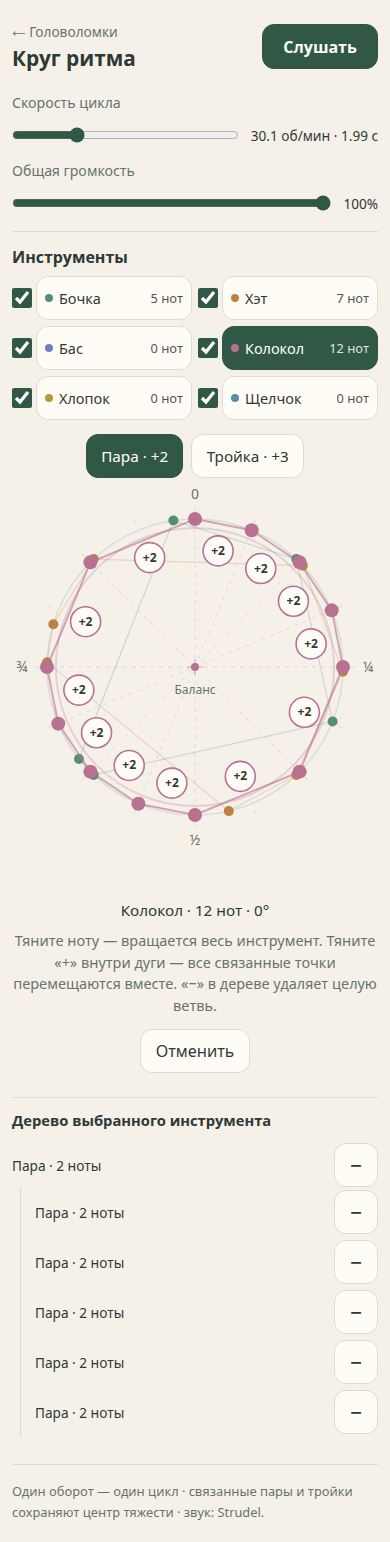
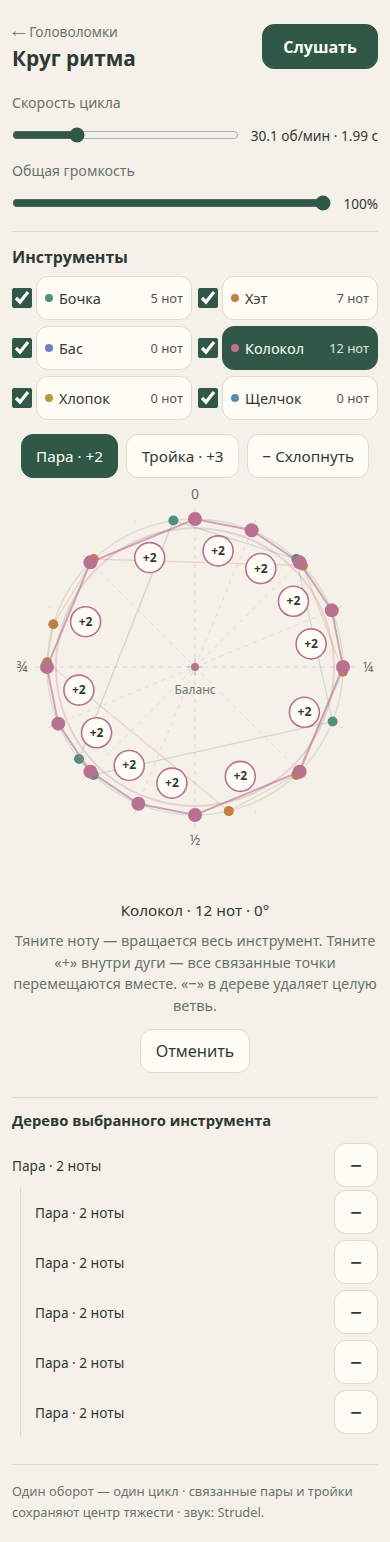
Expose balanced group collapse directly on the rhythm figure

Changed region(s): [[0.0308, 0.2802, 0.4923, 0.3113], [0.7077, 0.2802, 0.8923, 0.3113], [0.5231, 0.2802, 0.6769, 0.3113]]

diff --git a/xronomorph/view.js b/xronomorph/view.js
@@ -9,16 +9,16 @@ window.XronoView=class{
     for(const type of ['pointerup','pointercancel','lostpointercapture'])svg.addEventListener(type,e=>this.end(e,type!=='pointerup'));
     svg.addEventListener('keydown',e=>{
       const action=e.target.closest('[data-action]'),note=e.target.closest('[data-note]');
-      if(action&&['Enter',' '].includes(e.key)){e.preventDefault();this.onAction({kind:'split',arc:+action.dataset.index,at:+action.dataset.at});}
+      if(action&&['Enter',' '].includes(e.key)){e.preventDefault();this.onAction(action.dataset.action==='merge'?{kind:'merge',group:+action.dataset.index}:{kind:'split',arc:+action.dataset.index,at:+action.dataset.at});}
       else if(note&&['ArrowLeft','ArrowRight'].includes(e.key)){e.preventDefault();this.onNudge(+note.dataset.part,(e.key==='ArrowRight'?1:-1)*(e.shiftKey?10:1)/360);}
     });
-    svg.addEventListener('focusin',e=>{const a=e.target.closest('[data-action]');if(a&&!this.drag&&this.hover?.index!==+a.dataset.index){this.hover={kind:'split',index:+a.dataset.index};this.draw();}});
-    svg.addEventListener('focusout',e=>{if(!svg.contains(e.relatedTarget)&&!this.drag&&this.hover){this.hover=null;this.draw();}});
+    svg.addEventListener('focusin',e=>{if(this.drawing)return;const a=e.target.closest('[data-action]');if(a&&!this.drag&&(this.hover?.kind!==a.dataset.action||this.hover?.index!==+a.dataset.index)){this.hover={kind:a.dataset.action,index:+a.dataset.index};this.draw();}});
+    svg.addEventListener('focusout',e=>{if(this.drawing)return;if(!svg.contains(e.relatedTarget)&&!this.drag&&this.hover){this.hover=null;this.draw();}});
     window.addEventListener('keydown',e=>{if(e.key==='Escape')this.end(null,true);});window.addEventListener('blur',()=>this.end(null,true));
     this.resize=new ResizeObserver(()=>{if(Math.abs(svg.getBoundingClientRect().width-(this.width||0))>1)this.draw();});this.resize.observe(svg);
   }
   color(p){return this.colors[XronoModel.instruments.findIndex(i=>i.id===p.instrument)];}
-  set(state,rows){if(this.selected!==state.selected)this.hover=null;this.selected=state.selected;this.state=state;this.rows=rows;this.draw();}
+  set(state,rows,mode='split'){if(this.selected!==state.selected||this.mode!==mode)this.hover=null;this.selected=state.selected;this.mode=mode;this.state=state;this.rows=rows;this.draw();}
   removal(id){this.removeGroup=id;this.draw();}
   node(name,attrs={},parent=this.svg){const n=document.createElementNS(this.NS,name);for(const[k,v]of Object.entries(attrs))n.setAttribute(k,String(v));parent.append(n);return n;}
   point(t,r=this.radius){const a=t*Math.PI*2-Math.PI/2;return{x:this.cx+r*Math.cos(a),y:this.cy+r*Math.sin(a)};}
@@ -45,7 +45,7 @@ window.XronoView=class{
     const M=XronoModel,focused=this.svg.contains(document.activeElement)?document.activeElement.closest?.('[data-action],[data-note]'):null,focus=focused?{...focused.dataset}:null;
     const w=Math.max(260,this.svg.getBoundingClientRect().width),h=Math.min(660,w+8);this.width=w;this.cx=w/2;this.cy=h/2;this.radius=Math.min(w/2-35,h/2-36);
     this.svg.setAttribute('viewBox',`0 0 ${w} ${h}`);this.svg.style.height=h+'px';this.svg.replaceChildren();this.targets=[];
-    this.node('title').textContent='Один круг — один цикл. Нота вращает весь инструмент. Плюс добавляет связанную пару или тройку. Дерево справа позволяет удалить целую ветвь.';
+    this.node('title').textContent='Один круг — один цикл. Нота вращает весь инструмент. Плюс добавляет связанную пару или тройку. Режим «Схлопнуть» убирает связанную группу. Дерево позволяет удалить целую ветвь.';
     this.node('circle',{cx:this.cx,cy:this.cy,r:this.radius,fill:'none',stroke:'var(--line)','stroke-width':1.5});
     for(let i=0;i<16;i++){const a=this.point(i/16,this.radius+7),b=this.point(i/16,this.radius+12);this.node('line',{x1:a.x,y1:a.y,x2:b.x,y2:b.y,stroke:'var(--line)'});}
     for(const[t,label]of[[0,'0'],[.25,'¼'],[.5,'½'],[.75,'¾']]){const p=this.point(t,this.radius+25);this.node('text',{x:p.x,y:p.y+5,'text-anchor':'middle'}).textContent=label;}
@@ -53,7 +53,7 @@ window.XronoView=class{
     let preview=null;
     if(d?.kind==='split')preview=this.packetPreview(d.arc.index,d.at);
     else if(this.hover?.kind==='split'&&arcs[this.hover.index])preview=this.packetPreview(this.hover.index);
-    const removing=M.inspect(part).find(g=>g.id===this.removeGroup)?.subtreeIds||[];
+    const collapseId=d?.kind==='merge'?d.index:this.hover?.kind==='merge'?this.hover.index:this.removeGroup,collapse=M.inspect(part).find(g=>g.id===collapseId),removing=collapse?.subtreeIds||[];
     const order=this.rows.filter(p=>p.enabled&&p.id!==selected).concat(this.rows[selected]);
     for(const row of order){
       const c=this.color(row),active=row.id===selected,group=this.node('g',{'data-layer':row.id,opacity:row.enabled?1:.3});
@@ -65,11 +65,15 @@ window.XronoView=class{
         this.node('circle',{cx:p.x,cy:p.y,r:active?7:5,fill:c,opacity:active&&removing.includes(event.group)?.25:1},mark);
       });
     }
-    for(const arc of arcs){
+    if(this.mode==='split')for(const arc of arcs){
       const affected=preview?.valid&&preview.affected.includes(arc.index);
       this.arc(arc.start+part.phase,arc.length,this.radius*.94,{stroke:color,'stroke-width':affected?4:2,'stroke-opacity':affected?.85:.25,'stroke-dasharray':arc.empty?'4 6':'none'});
       const option=M.splitOptions(part,this.state.arity,arc,domains),at=d?.kind==='split'&&d.arc.index===arc.index?d.at:option.at;
-      if(at!=null)this.button(arc.index,at,this.point(at+part.phase,this.radius*.80),'+'+this.state.arity,arc.empty?'Добавить первую '+(this.state.arity===2?'пару':'тройку'):'Добавить '+this.state.arity+' связанные ноты: нажмите или потяните плюс',color);
+      if(at!=null)this.button('split',arc.index,at,this.point(at+part.phase,this.radius*.80),'+'+this.state.arity,arc.empty?'Добавить первую '+(this.state.arity===2?'пару':'тройку'):'Добавить '+this.state.arity+' связанные ноты: нажмите или потяните плюс',color);
+    }
+    if(this.mode==='merge')for(const g of M.inspect(part).filter(g=>!g.node.children.length)){
+      const at=g.points[0],label='Схлопнуть группу: убрать '+g.count+' нот';
+      this.button('merge',g.id,at,this.point(at+part.phase,this.radius*.72),'−'+g.count,label,color);
     }
     if(preview){
       const c=preview.valid?color:'var(--invalid)',times=preview.points.map(t=>M.wrap(t+part.phase));
@@ -81,14 +85,14 @@ window.XronoView=class{
     this.node('circle',{cx:this.cx+b.y*this.radius,cy:this.cy-b.x*this.radius,r:4,fill:color,'data-balance':b.residual,'data-empty':b.empty});
     this.node('text',{x:this.cx,y:this.cy+27,'text-anchor':'middle',class:'balance-label'}).textContent=b.empty?'Нет нот':'Баланс';
     this.locator=this.node('line',{x1:this.cx,y1:this.cy,x2:this.cx,y2:this.cy-this.radius,stroke:'var(--ink)','stroke-width':1.2,opacity:0});
-    this.onPreview?.(preview?(preview.valid?`${preview.order===2?'Пара':'Тройка'}: ${preview.order} связанные ноты · баланс сохранён`:preview.reason):removing.length?'Удаляется целая ветвь со всеми потомками':'');
-    if(focus){const selector=focus.action?`[data-action="split"][data-index="${focus.index}"]`:`[data-note="${focus.note}"][data-part="${focus.part}"]`;const target=this.svg.querySelector(selector)||this.svg.querySelector('[data-action="split"]');target?.focus?.({preventScroll:true});}
+    this.onPreview?.(preview?(preview.valid?`${preview.order===2?'Пара':'Тройка'}: ${preview.order} связанные ноты · баланс сохранён`:preview.reason):removing.length?(collapse.node.children.length?'Удаляется целая ветвь со всеми потомками':'Схлопнуть группу: −'+collapse.count+' нот · баланс сохранён'):'');
+    if(focus){const selector=focus.action?`[data-action="${focus.action}"][data-index="${focus.index}"]`:`[data-note="${focus.note}"][data-part="${focus.part}"]`;const exact=this.svg.querySelector(selector),target=exact||this.svg.querySelector('[data-action]');target?.focus?.({preventScroll:true});if(!exact&&target?.dataset.action){this.hover={kind:target.dataset.action,index:+target.dataset.index};queueMicrotask(()=>this.draw());}}
     }finally{this.drawing=false;}
   }
-  button(index,at,p,symbol,label,color){
-    const g=this.node('g',{'data-action':'split','data-index':index,'data-at':at,role:'button',tabindex:0,'aria-label':label,class:'arc-target'});
+  button(kind,index,at,p,symbol,label,color){
+    const g=this.node('g',{'data-action':kind,'data-index':index,'data-at':at,role:'button',tabindex:0,'aria-label':label,class:'arc-target'});
     this.node('title',{},g).textContent=label;this.node('circle',{cx:p.x,cy:p.y,r:22,fill:'transparent'},g);this.node('circle',{cx:p.x,cy:p.y,r:15,fill:'var(--surface)',stroke:color,'stroke-width':1.6},g);
-    this.node('text',{x:p.x,y:p.y+4,'text-anchor':'middle'},g).textContent=symbol;this.targets.push({kind:'split',index,at,...p});
+    this.node('text',{x:p.x,y:p.y+4,'text-anchor':'middle'},g).textContent=symbol;this.targets.push({kind,index,at,...p});
   }
   local(e){const b=this.svg.getBoundingClientRect();return{x:e.clientX-b.x,y:e.clientY-b.y};}
   angle(p){return XronoModel.wrap((Math.atan2(p.y-this.cy,p.x-this.cx)+Math.PI/2)/(2*Math.PI));}
@@ -101,13 +105,16 @@ window.XronoView=class{
     if(this.drag||e.button!==0)return;const M=XronoModel,p=this.local(e),hit=this.hit(p);if(!hit)return;this.hover=null;
     if(hit.kind==='rotate'){
       this.onSelect(hit.id);this.onRotateStart();this.drag={kind:'rotate',pointer:e.pointerId,id:hit.id,phase:this.state.parts[hit.id].phase,last:this.angle(p),delta:0};
+    }else if(hit.kind==='merge'){
+      this.drag={kind:'merge',pointer:e.pointerId,index:hit.index,start:p,moved:false};
     }else{
       const part=this.state.parts[this.state.selected],arc=M.arcs(part)[hit.index],at=hit.at;this.drag={kind:'split',pointer:e.pointerId,arc,at,initialAt:at,last:this.angle(p),delta:0,start:p,moved:false};
     }
     this.svg.setPointerCapture(e.pointerId);e.preventDefault();this.draw();
   }
   move(e){
-    const d=this.drag,p=this.local(e);if(!d){const hit=this.hit(p),next=hit?.kind==='split'?{kind:'split',index:hit.index}:null;this.svg.style.cursor=hit?'grab':'default';if(this.hover?.index!==next?.index){this.hover=next;this.draw();}return;}if(d.pointer!==e.pointerId)return;e.preventDefault();
+    const d=this.drag,p=this.local(e);if(!d){const hit=this.hit(p),next=hit&&hit.kind!=='rotate'?{kind:hit.kind,index:hit.index}:null;this.svg.style.cursor=hit?(hit.kind==='merge'?'pointer':'grab'):'default';if(this.hover?.kind!==next?.kind||this.hover?.index!==next?.index){this.hover=next;this.draw();}return;}if(d.pointer!==e.pointerId)return;e.preventDefault();
+    if(d.kind==='merge'){if(Math.hypot(p.x-d.start.x,p.y-d.start.y)>12)d.moved=true;return;}
     if(Math.hypot(p.x-this.cx,p.y-this.cy)<this.radius*.25)return;
     const M=XronoModel,angle=this.angle(p);d.delta+=M.wrap(angle-d.last+.5)-.5;d.last=angle;
     if(d.kind==='rotate'){this.onRotate(d.id,d.phase+d.delta);return;}
@@ -117,6 +124,7 @@ window.XronoView=class{
   end(e,cancel){
     const d=this.drag;if(!d||e&&e.pointerId!==d.pointer)return;this.drag=null;this.hover=null;if(this.svg.hasPointerCapture(d.pointer))this.svg.releasePointerCapture(d.pointer);
     if(d.kind==='rotate')this.onRotateEnd(cancel);
+    else if(d.kind==='merge'){if(!cancel&&!d.moved)this.onAction({kind:'merge',group:d.index});}
     else if(!cancel&&this.packetPreview(d.arc.index,d.at).valid)this.onAction({kind:'split',arc:d.arc.index,at:d.at});
     this.draw();
   }

diff --git a/xronomorph/app.js b/xronomorph/app.js
@@ -2,7 +2,7 @@
 (() => {
   'use strict';
   const M=XronoModel,$=id=>document.getElementById(id),storage='biba-balanced-rhythm/1',history=[];
-  let state=M.initial(),rows=[],rotationBefore=null,error=null;
+  let state=M.initial(),rows=[],rotationBefore=null,error=null,editMode='split';
   try{const saved=localStorage.getItem(storage)||localStorage.getItem('biba-rhythm-arcs/1')||localStorage.getItem('biba-xronomorph/1');if(saved)state=M.migrate(JSON.parse(saved));}catch{}
   const save=()=>{try{localStorage.setItem(storage,JSON.stringify(state));}catch{}};
   const fail=e=>{error=String(e.message||e);$('error').textContent=error;$('error').hidden=false;updateTransport();};
@@ -44,13 +44,14 @@
     $('audio-state').textContent=audio.starting?'Готовим звук…':audio.running?'Играет':error?'Можно повторить запуск':'Готов к прослушиванию';
   }
   function render(){
-    rows=M.project(state);audio.update(state);view.set(state,rows);
+    rows=M.project(state);audio.update(state);view.set(state,rows,editMode);
     rows.forEach((row,i)=>{const b=buttons[i];b.enabled.checked=row.enabled;b.button.setAttribute('aria-pressed',String(i===state.selected));b.count.textContent=noteCount(row.points.length);});
     for(const id of ['rpm','volume'])if($(id).value!==String(state[id]))$(id).value=state[id];
     $('rpm-value').textContent=Number(state.rpm.toFixed(1))+' об/мин · '+Number((60/state.rpm).toFixed(2))+' с';$('volume-value').textContent=Math.round(state.volume*100)+'%';
     const row=rows[state.selected];$('geometry-status').textContent=row.label+' · '+noteCount(row.points.length)+' · '+Math.round(row.phase*360)+'°';
-    $('gesture-help').textContent=row.points.length?'Тяните ноту — вращается весь инструмент. Тяните «+» внутри дуги — все связанные точки перемещаются вместе. «−» в дереве удаляет целую ветвь.':'Выберите пару или тройку. Нажмите «+» или потяните его по кругу: все связанные ноты появятся одновременно.';
-    document.querySelectorAll('[data-order]').forEach(b=>b.setAttribute('aria-pressed',String(+b.dataset.order===state.arity)));
+    $('gesture-help').textContent=editMode==='merge'?(row.points.length?'Нажмите «−» на фигуре: исчезнут все ноты одной связанной группы. Сначала схлопываются дочерние группы, затем родительские. Тянуть ноты для вращения можно по-прежнему.':'Инструмент пуст. Выберите пару или тройку, чтобы снова добавить ноты.'):row.points.length?'Тяните ноту — вращается весь инструмент. Тяните «+» внутри дуги — все связанные точки перемещаются вместе. «−» в дереве удаляет целую ветвь.':'Выберите пару или тройку. Нажмите «+» или потяните его по кругу: все связанные ноты появятся одновременно.';
+    document.querySelectorAll('[data-order]').forEach(b=>b.setAttribute('aria-pressed',String(editMode==='split'&&+b.dataset.order===state.arity)));
+    $('collapse-mode').setAttribute('aria-pressed',String(editMode==='merge'));
     renderTree();
     $('undo').disabled=!history.length;updateTransport();
   }
@@ -70,7 +71,8 @@
     }};
     branch(p.groups,tree);if(focused)tree.querySelector(`[data-remove-group="${focused}"]`)?.focus({preventScroll:true});
   }
-  document.querySelectorAll('[data-order]').forEach(button=>activate(button,()=>{view.end(null,true);state.arity=+button.dataset.order;view.hover=null;render();save();}));
+  document.querySelectorAll('[data-order]').forEach(button=>activate(button,()=>{view.end(null,true);state.arity=+button.dataset.order;editMode='split';view.hover=null;view.removeGroup=null;render();save();}));
+  activate($('collapse-mode'),()=>{view.end(null,true);editMode='merge';view.hover=null;view.removeGroup=null;render();});
   const migration=state.migration;
   if(migration?.skipped?.length){
     $('migration').hidden=false;

diff --git a/xronomorph/index.html b/xronomorph/index.html
@@ -6,7 +6,7 @@
   <meta name="color-scheme" content="light dark">
   <title>Круг ритма · сбалансированное деление</title>
   <link rel="icon" href="data:,">
-  <link rel="stylesheet" href="style.css?v=balanced1">
+  <link rel="stylesheet" href="style.css?v=collapse1">
 </head>
 <body>
 <main id="xrono-lab" data-build="balanced-rhythm/1">
@@ -21,8 +21,8 @@
   <div id="migration" class="migration" hidden><p id="migration-text"></p><button id="download-legacy" type="button">Скачать прежний рисунок</button></div>
   <section class="workspace">
     <div class="diagram-panel">
-      <div class="packet-tools" aria-label="Как делить"><button type="button" data-order="2" aria-pressed="true">Пара · +2</button><button type="button" data-order="3" aria-pressed="false">Тройка · +3</button></div>
-      <svg id="diagram" role="group" aria-label="Круг ритма: ноты вращают инструмент, плюс добавляет связанную пару или тройку."></svg>
+      <div class="packet-tools" aria-label="Как делить"><button type="button" data-order="2" aria-pressed="true">Пара · +2</button><button type="button" data-order="3" aria-pressed="false">Тройка · +3</button><button type="button" id="collapse-mode" aria-pressed="false">− Схлопнуть</button></div>
+      <svg id="diagram" role="group" aria-label="Круг ритма: ноты вращают инструмент, плюс добавляет связанную пару или тройку, минус схлопывает группу."></svg>
       <p id="preview-status" class="preview-status" aria-live="polite"></p>
       <p id="geometry-status" class="geometry-status" aria-live="polite"></p>
       <p id="gesture-help" class="help"></p>
@@ -38,9 +38,9 @@
   <footer>Один оборот — один цикл · связанные пары и тройки сохраняют центр тяжести · звук: Strudel.</footer>
 </main>
 <script src="../vendor/strudel-web-1.3.0.js"></script>
-<script src="model.js?v=balanced1"></script>
-<script src="transport.js?v=balanced1"></script>
-<script src="view.js?v=balanced1"></script>
-<script src="app.js?v=balanced1"></script>
+<script src="model.js?v=collapse1"></script>
+<script src="transport.js?v=collapse1"></script>
+<script src="view.js?v=collapse1"></script>
+<script src="app.js?v=collapse1"></script>
 </body>
 </html>

diff --git a/controls/dialogs.js b/controls/dialogs.js
@@ -3,7 +3,7 @@ window.PuzzleDialogs=class{
   constructor(host,{onStart,onChoose,onAgain,onMenu,onRetry=()=>location.reload(),onReport}){
     host.innerHTML='<dialog id="session-overlay" class="session-overlay" aria-labelledby="session-title"><div class="record-mark" aria-hidden="true"><span>◈</span></div><div class="setup-choices"><label class="song-choice"><span>Композиция</span><select id="song-select" aria-label="Композиция" disabled></select></label><label class="song-choice"><span>Головоломка</span><select id="puzzle-select" aria-label="Головоломка" disabled></select></label></div><h1 id="session-title">Музыкальная головоломка</h1><p id="song-meta" class="song-meta"></p><p id="session-feedback" class="session-feedback" role="status">Загрузка…</p><button id="start" class="primary-button" disabled>Начать</button></dialog><dialog id="result-dialog" class="result-dialog" aria-labelledby="result-title"><div id="celebration" class="celebration" aria-hidden="true" hidden></div><p class="result-caption">Композиция собрана</p><h2 id="result-title"></h2><p id="result-song" class="song-meta"></p><a id="download-mp3" class="primary-button" download>Скачать трек · MP3</a><button id="play-again" class="outline-button">Ещё раз</button><button id="choose-song" class="outline-button">Выбрать композицию</button></dialog>';
     this.root=host;this.$=id=>host.querySelector('#'+id);
-    this.$('session-overlay').insertAdjacentHTML('beforeend','<a class="report-button" href="xronomorph/index.html?v=balanced1">Круг ритма</a>');
+    this.$('session-overlay').insertAdjacentHTML('beforeend','<a class="report-button" href="xronomorph/index.html?v=collapse1">Круг ритма</a>');
     this.$('start').onclick=()=>this.error?onRetry():onStart();this.$('play-again').onclick=onAgain;this.$('choose-song').onclick=onMenu;
     for(const id of ['song-select','puzzle-select'])this.$(id).onchange=()=>onChoose({songId:this.$('song-select').value,puzzleId:this.$('puzzle-select').value});
     host.querySelectorAll('dialog').forEach(d=>d.addEventListener('cancel',e=>e.preventDefault()));

diff --git a/index.html b/index.html
@@ -59,7 +59,7 @@
 <script src="controls/action-controls.js?v=chairs1"></script>
 <script src="controls/hint.js?v=chairs1"></script>
 <script src="controls/player.js?v=chairs1"></script>
-<script src="controls/dialogs.js?v=balanced1"></script>
+<script src="controls/dialogs.js?v=collapse1"></script>
 <script src="puzzles/rubik/model.js?v=chairs1"></script>
 <script src="puzzles/rubik/module.js?v=chairs1"></script>
 <script src="puzzles/rubik/three-view.js?v=chairs1"></script>

diff --git a/README.md b/README.md
@@ -63,8 +63,8 @@ HTML-прототип с независимыми композициями и г
 [Круг ритма](xronomorph/index.html) — отдельный редактор сбалансированных
 ритмов. Из пустого инструмента создаются связанные пары или тройки нот;
 дальнейшие добавления сохраняют центр тяжести в центре круга. Перетаскивание
-ноты вращает всю партию, дерево позволяет удалить целую ветвь. Связанное
-превью показывает допустимое деление и предупреждает о совпадении нот.
+ноты вращает всю партию; режим «Схлопнуть» убирает последние связанные
+группы прямо с фигуры. Дерево позволяет удалить целую ветвь. Связанное превью показывает допустимое деление и предупреждает о совпадении нот.
 Звук и непрерывный цикл — native Strudel. Контракт головоломок не меняется.
 [Устройство и проверки](xronomorph/README.md).
 
